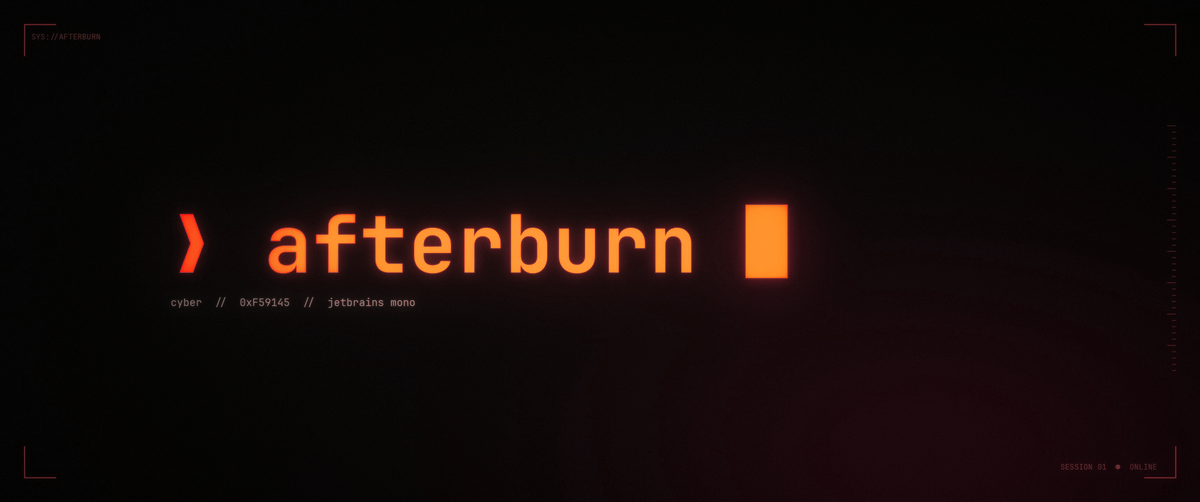
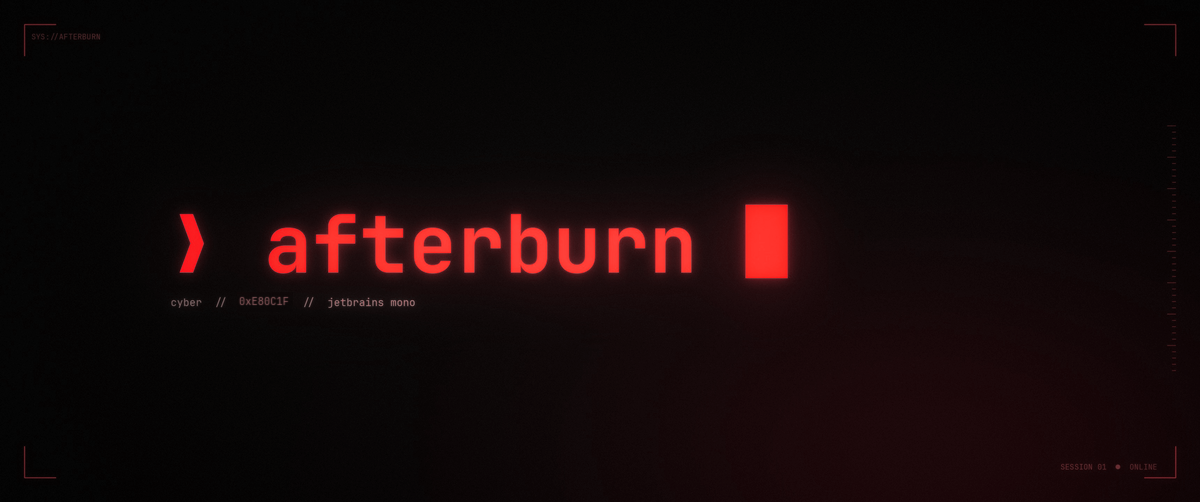
Regenerate editions: heat wallpapers, afterburn_cool, red Redline, edition hex captions
Output of tools/make-editions.sh at the previous commit. New: editions/<name>/heat-wallpapers/
{cool,hot} (12 JPEGs each) and an afterburn_cool key in each colors.toml. Changed: Redline's
stills, preview and heat set (warm-band remap); every preview and 2-prompt still (caption hex);
every PNG (date chunks dropped, pixels identical to before except the edits above).
Videos and the other stills are byte-identical to before.

diff --git a/editions/README.md b/editions/README.md
@@ -3,6 +3,7 @@
 Generated by `tools/make-editions.sh`. Do not hand-edit; change the script and rerun it.
 
 Each edition is the base theme with its warm colours hue-rotated. Neutrals (backgrounds, greys) are unchanged, and the art keeps its shapes.
+Each also carries its own cool and hot heat wallpapers in `heat-wallpapers/`, which the `afterburn` command swaps in at those heat levels.
 
 | Edition | Accent | Tagline |
 | --- | --- | --- |
